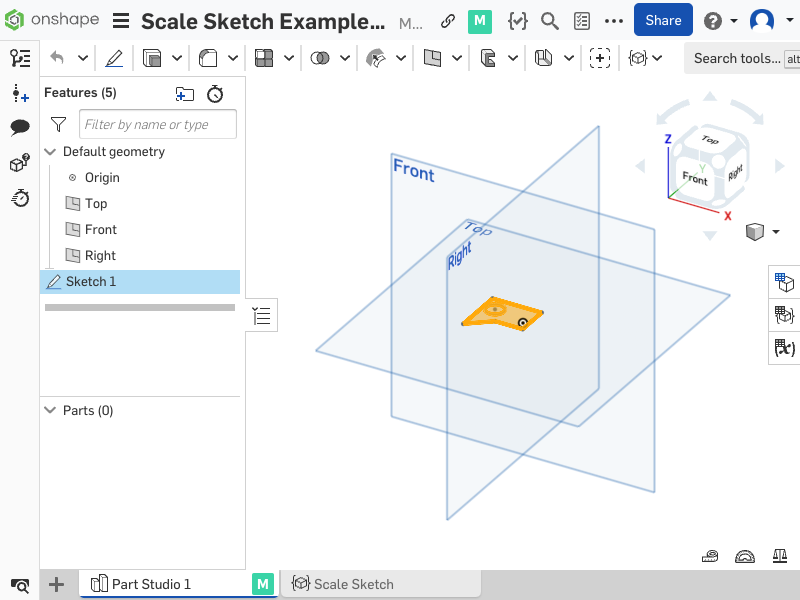
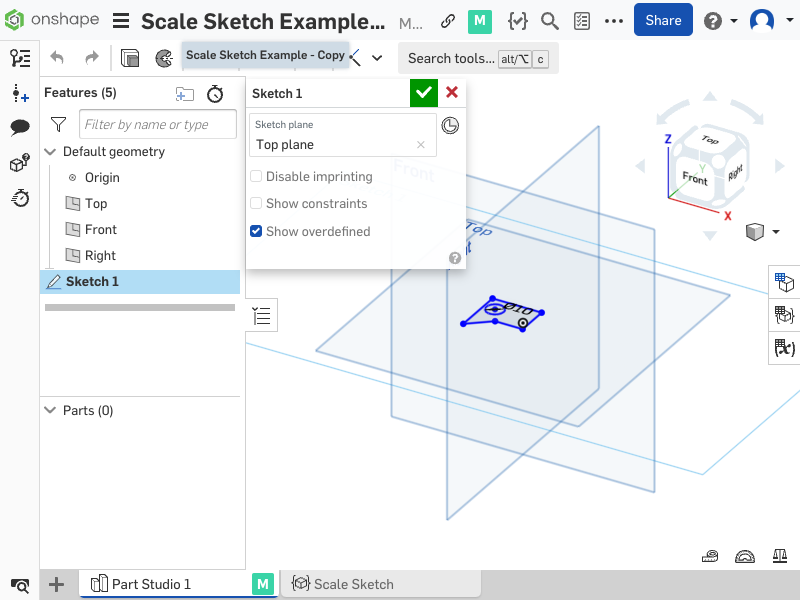
Doing the edit option

diff --git a/test.js b/test.js
@@ -18,15 +18,9 @@ require('dotenv').config(); // Load environment variables from .env file
         console.log('Filling out form fields...');
         await newPage.type('input[name="email"].form-control', process.env.EMAIL);
         await newPage.type('input[name="password"].form-control', process.env.PASSWORD);
-        // await newPage.type('input[name="email"].form-control', 'macosta1297@gmail.com');
-        // await newPage.type('input[name="password"].form-control', 'ElonMusk2050');
 
         console.log('Clicking on the submit button...');
         await newPage.click('button.btn.btn-primary.os-signin-button');
-
-        // Wait for navigation to complete
-        console.log('Waiting for navigation...');
-        // await newPage.waitForNavigation({ waitUntil: 'networkidle0' });
 
         console.log('Waiting for 10 seconds after navigation...');
         await new Promise(resolve => setTimeout(resolve, 10000));
@@ -68,7 +62,7 @@ require('dotenv').config(); // Load environment variables from .env file
         });
 
         console.log('Waiting for 10 seconds after navigation...');
-        await new Promise(resolve => setTimeout(resolve, 10000));
+        await new Promise(resolve => setTimeout(resolve, 5000));
 
         console.log('Scrolling to the element...');
         await newPage.evaluate(() => {
@@ -93,6 +87,60 @@ require('dotenv').config(); // Load environment variables from .env file
             }
         });
 
+        console.log('Right Click...');
+        await newPage.click('div[data-id="Dg4JdGx6jlZTm4XD"]', { button: 'right' });
+
+        console.log('Waiting for 10 seconds after Right Click...');
+        await new Promise(resolve => setTimeout(resolve, 10000));
+
+        console.log('Scrolling to the bottom of the page...');
+        await newPage.evaluate(() => {
+            window.scrollTo(0, document.body.scrollHeight);
+        });
+
+        console.log('Waiting for the "Edit" options to appear...');
+        await newPage.waitForSelector('.context-menu-item-span', { visible: true });
+
+        console.log('Getting all "Edit" options...');
+        const editOptions = await newPage.evaluate(() => {
+            const menuItems = document.querySelectorAll('.context-menu-item-span');
+            return Array.from(menuItems).map(item => item.textContent.trim());
+        });
+
+        console.log('Edit options:', editOptions);
+
+        console.log('Clicking on the second "Edit" option...');
+        const desiredEditOption = 'Edit…'; // Text of the desired option
+        const desiredEditOptionIndex = editOptions.indexOf(desiredEditOption);
+        if (desiredEditOptionIndex !== -1) {
+            const editOptionElement = await newPage.evaluateHandle((index) => {
+                const menuItems = document.querySelectorAll('.context-menu-item-span');
+                return menuItems[index];
+            }, desiredEditOptionIndex);
+
+            if (editOptionElement) {
+                await editOptionElement.click();
+            } else {
+                console.error(`${desiredEditOption} option element not found.`);
+            }
+        } else {
+            console.error(`${desiredEditOption} option not found.`);
+        }
+
+
+        // console.log('Waiting for the "Edit" option to appear...');
+        // await newPage.waitForSelector('.context-menu-item-span', { visible: true });
+
+        // console.log('Getting all "Edit" options...');
+        // const menuItems = await newPage.$$('.context-menu-item-span');
+
+        // console.log('Clicking on the third "Edit" option...');
+        // if (menuItems.length >= 3) {
+        //     await menuItems[0].click();
+        // } else {
+        //     console.error('Third "Edit" option not found.');
+        // }
+
         console.log('Waiting for 10 seconds after navigation...');
         await new Promise(resolve => setTimeout(resolve, 10000));
 
@@ -107,5 +155,126 @@ require('dotenv').config(); // Load environment variables from .env file
         console.error('An error occurred:', error);
     }
 })();
+
+
+
+// const puppeteer = require('puppeteer');
+// require('dotenv').config(); // Load environment variables from .env file
+
+// (async () => {
+//     try {
+//         console.log('Launching browser...');
+//         const browser = await puppeteer.launch({
+//             headless: false, // Launch Chrome with visible browser window
+//             userDataDir: '/Users/marioacosta/Library/Application Support/Google/Chrome/Profile 1' // Path to your user data directory
+//         });
+
+//         console.log('Opening new page...');
+//         const newPage = await browser.newPage();
+
+//         console.log('Navigating to the URL...');
+//         await newPage.goto('https://cad.onshape.com/documents?resourceType=resourcecompanyowner&nodeId=65efc5e06e5bec02f57742fe', { waitUntil: 'networkidle0', timeout: 0 });
+
+//         console.log('Filling out form fields...');
+//         await newPage.type('input[name="email"].form-control', process.env.EMAIL);
+//         await newPage.type('input[name="password"].form-control', process.env.PASSWORD);
+//         // await newPage.type('input[name="email"].form-control', 'macosta1297@gmail.com');
+//         // await newPage.type('input[name="password"].form-control', 'ElonMusk2050');
+
+//         console.log('Clicking on the submit button...');
+//         await newPage.click('button.btn.btn-primary.os-signin-button');
+
+//         // Wait for navigation to complete
+//         console.log('Waiting for navigation...');
+//         // await newPage.waitForNavigation({ waitUntil: 'networkidle0' });
+
+//         console.log('Waiting for 10 seconds after navigation...');
+//         await new Promise(resolve => setTimeout(resolve, 10000));
+
+//         console.log('Scrolling to the element...');
+//         await newPage.evaluate(() => {
+//             const thirdButton = document.querySelectorAll('.documents-filter-icon')[2];
+//             if (thirdButton) {
+//                 thirdButton.scrollIntoView({ behavior: 'smooth', block: 'center', inline: 'center' });
+//             } else {
+//                 console.error('Third button not found.');
+//             }
+//         });
+
+//         console.log('Waiting for 2 seconds after scrolling...');
+//         await new Promise(resolve => setTimeout(resolve, 2000));
+
+//         console.log('Clicking on the third element...');
+//         await newPage.evaluate(() => {
+//             const thirdButton = document.querySelectorAll('.documents-filter-icon')[2];
+//             if (thirdButton) {
+//                 thirdButton.click();
+//             } else {
+//                 console.error('Third button not found.');
+//             }
+//         });
+
+//         console.log('Waiting for 2 seconds after selecting the "Created By Me"...');
+//         await new Promise(resolve => setTimeout(resolve, 2000));
+
+//         console.log('Clicking on the "Scale Sketch Example - Copy" element...');
+//         await newPage.evaluate(() => {
+//             const documentNameElement = document.querySelector('span[aria-label="Document name: Scale Sketch Example - Copy"][ng-bind-html="document.resultHighlight"]');
+//             if (documentNameElement) {
+//                 documentNameElement.click();
+//             } else {
+//                 console.error('Element with text "Scale Sketch Example - Copy" not found.');
+//             }
+//         });
+
+//         console.log('Waiting for 10 seconds after navigation...');
+//         await new Promise(resolve => setTimeout(resolve, 5000));
+
+//         console.log('Scrolling to the element...');
+//         await newPage.evaluate(() => {
+//             const thirdButton = document.querySelectorAll('.os-list-item-name')[2];
+//             if (thirdButton) {
+//                 thirdButton.scrollIntoView({ behavior: 'smooth', block: 'center', inline: 'center' });
+//             } else {
+//                 console.error('Third button not found.');
+//             }
+//         });
+
+//         console.log('Waiting for 2 seconds after scrolling...');
+//         await new Promise(resolve => setTimeout(resolve, 2000));
+
+//         console.log('Clicking on the fifth element...');
+//         await newPage.evaluate(() => {
+//             const fifthButton = document.querySelectorAll('.os-list-item-name')[5];
+//             if (fifthButton) {
+//                 fifthButton.click();
+//             } else {
+//                 console.error('Fifth button not found.');
+//             }
+//         });
+
+//         console.log('Right Click...');
+//         await newPage.click('div[data-id="Dg4JdGx6jlZTm4XD"]', { button: 'right' });
+
+//         console.log('Waiting for the "Edit" option to appear...');
+//         await page.waitForSelector('.context-menu-item-span', { visible: true });
+
+//         console.log('Clicking on the "Edit" option...');
+//         await page.click('.context-menu-item-span');
+
+//         console.log('Waiting for 10 seconds after navigation...');
+//         await new Promise(resolve => setTimeout(resolve, 10000));
+
+//         console.log('Taking a screenshot...');
+//         await newPage.screenshot({ path: 'form_submission.png' });
+
+//         console.log('Closing the browser...');
+//         await browser.close();
+
+//         console.log('Script completed successfully.');
+//     } catch (error) {
+//         console.error('An error occurred:', error);
+//     }
+// })();
 
 
